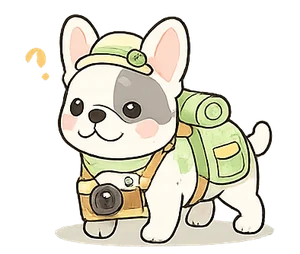
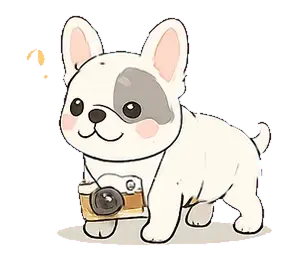
犬のデフォルトの見た目を裸にする
ホームを歩き回るフレブルをはじめ、犬のイラストには帽子・バンダナ・リュックが
描き込まれていた。装備は Lv 報酬で着脱するものなので、何も装備していなくても
最初から装備品を着ているように見えてしまう。

20 ポーズすべてを、装備の描き込みがない同じ構図の絵に差し替えた。キャンバス
サイズと足元の位置は元の絵と同じなので、歩行の位置合わせ（POSE_NUDGE_X）は
そのまま使える。

ショップ見本で使っていた lie / sit-side だけは裸の絵がないため、それぞれ
sleep / sit に差し替えた。

Claude-Session: https://claude.ai/code/session_01FDnGFRVYQEFfEvfGxnDqnQ

diff --git a/src/components/coin-shop-preview.tsx b/src/components/coin-shop-preview.tsx
@@ -37,7 +37,7 @@ const SAMPLES: readonly ShopSample[] = [
       <>
         <span className={FLOOR} />
         <span className="absolute inset-x-0 bottom-[22%] h-px bg-[#e0cba4]" />
-        <img src="/characters/frenchie/lie.webp" alt="" className={DOG} draggable={false} />
+        <img src="/characters/frenchie/sleep.webp" alt="" className={DOG} draggable={false} />
       </>
     ),
     after: (
@@ -93,7 +93,7 @@ const SAMPLES: readonly ShopSample[] = [
         <span className="absolute inset-0 bg-gradient-to-b from-[#dfe6ea] to-[#cdd8de]" />
         <RainDrops />
         <img
-          src="/characters/frenchie/sit-side.webp"
+          src="/characters/frenchie/sit.webp"
           alt=""
           className={`${DOG} opacity-90 saturate-50`}
           draggable={false}
